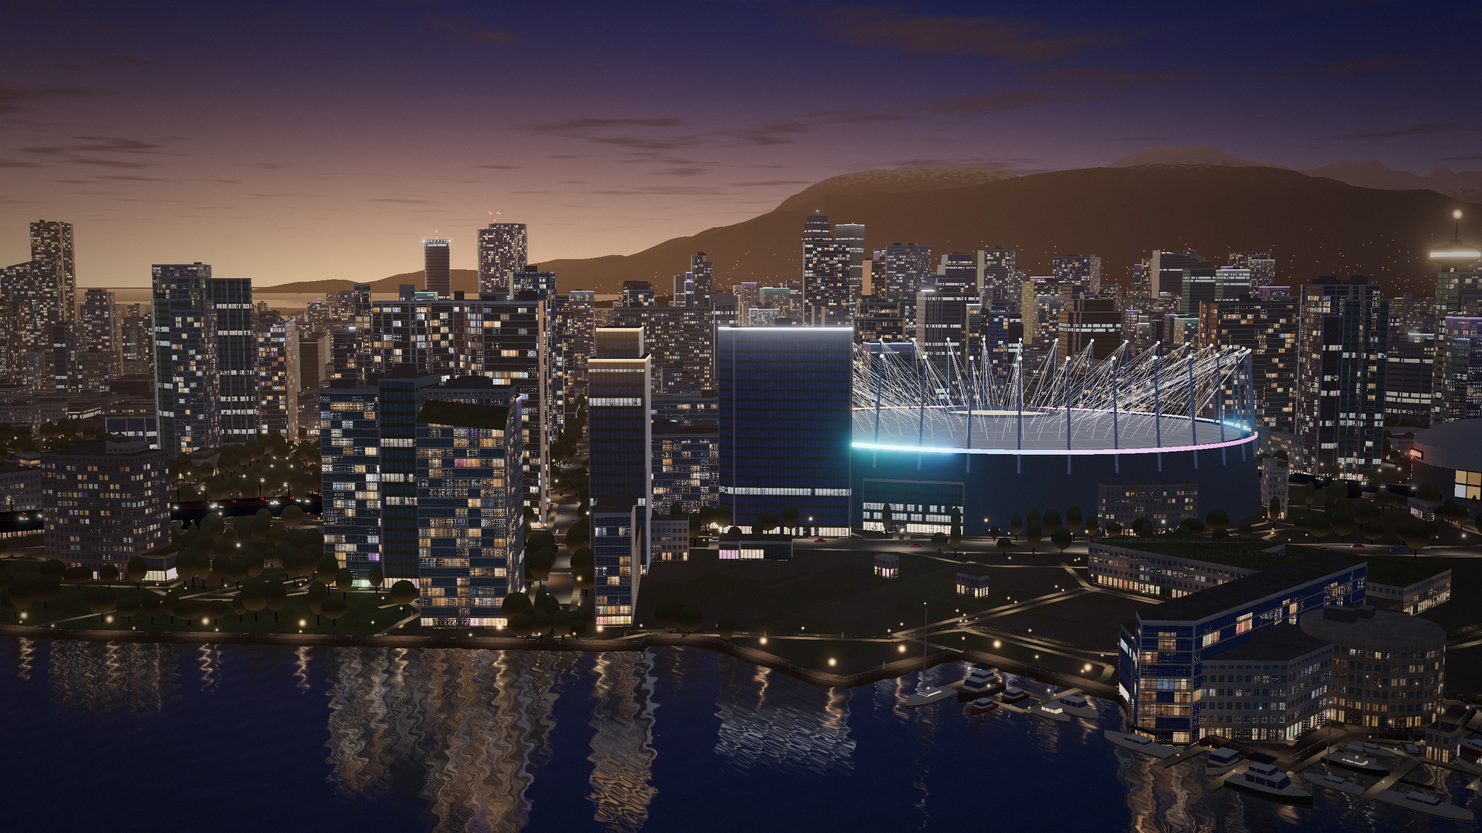
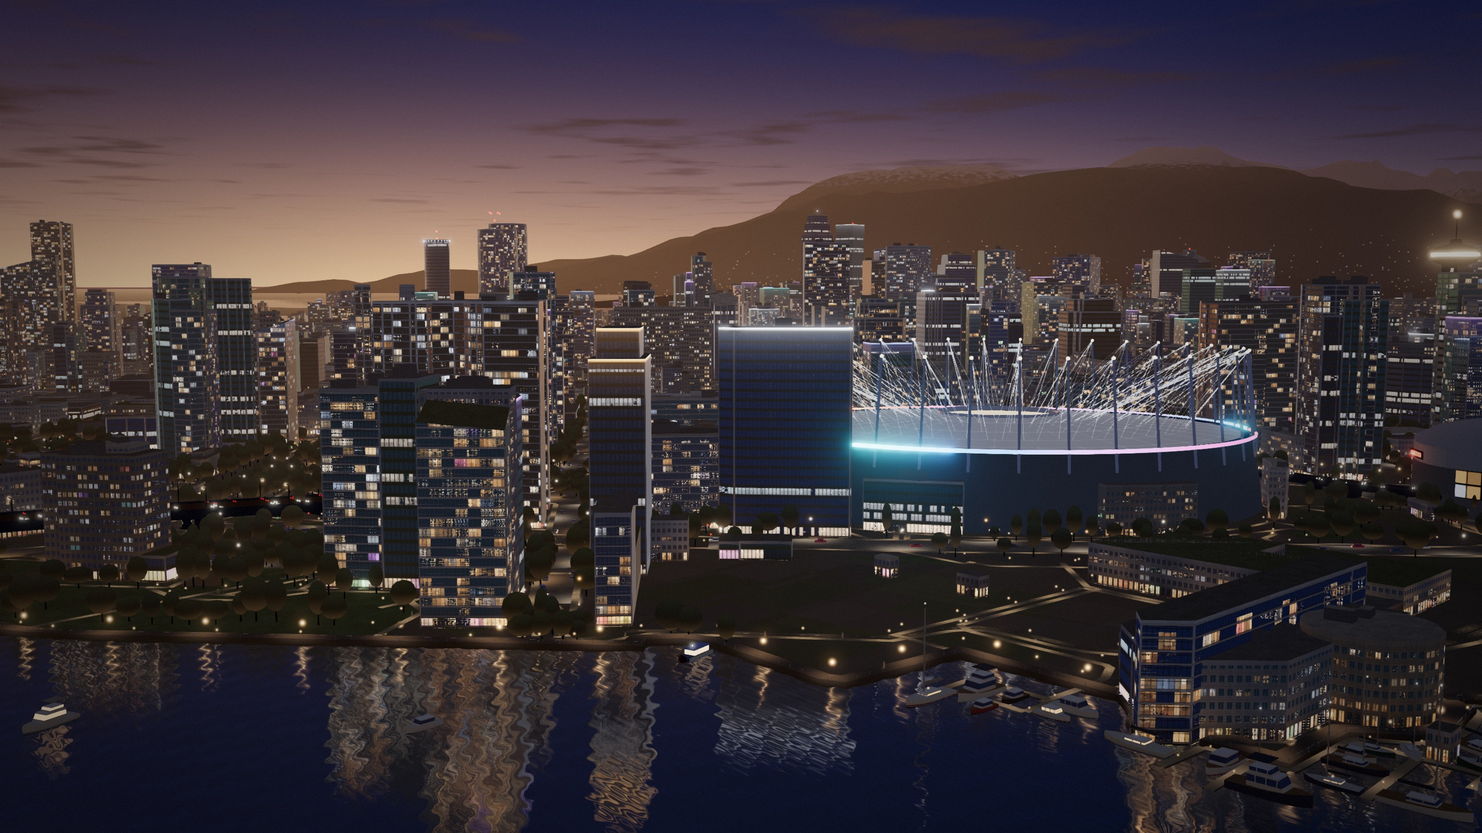
Hero: anti-aliasing, aligned paths and seawall, open-water boats, more realistic Granville Island
FXAA pass (the scene had no AA). Paths, streets and the seawall deck use mitered ribbons so they stay
continuous at bends and are clipped over water; the deck slopes down to the ground. Open-water sailboats,
cruisers and extra ferries in the creek. Granville Island: muted weathered palette, facing-dependent
light, stepped multi-bay market-hall roofs, pale silos with a few painted patches, warmer shopfront
lights. Posters re-rendered.

diff --git a/src/hero/granville.js b/src/hero/granville.js
@@ -14,8 +14,8 @@ import { orientedExtents, centroid } from './skyline-data.js';
 // Painted wall colours (dark linear albedo: they sit in blue-hour light): brick red, ochre, teal, cream, navy, green,
 // corrugated grey, rust orange, slate blue, mustard.
 const PALETTE = [
-  [0.5, 0.1, 0.07], [0.6, 0.42, 0.13], [0.07, 0.34, 0.36], [0.66, 0.63, 0.54], [0.12, 0.17, 0.3],
-  [0.22, 0.4, 0.18], [0.42, 0.43, 0.46], [0.62, 0.27, 0.09], [0.2, 0.3, 0.45], [0.68, 0.52, 0.1],
+  [0.38, 0.4, 0.42], [0.45, 0.16, 0.12], [0.18, 0.3, 0.3], [0.58, 0.55, 0.49], [0.24, 0.28, 0.36],
+  [0.26, 0.34, 0.22], [0.48, 0.36, 0.14], [0.4, 0.22, 0.12], [0.62, 0.6, 0.55], [0.62, 0.6, 0.55], [0.38, 0.4, 0.42],
 ];
 const ROOF = [0.16, 0.17, 0.19];
 
@@ -116,8 +116,13 @@ function createShedMaterial(uniforms) {
         float roofish = max(isRoof, step(0.35, n.y));
         vec3 sky = skyColor(normalize(vec3(n.x, max(n.y, 0.15), n.z)));
         // Sky light from above, warm spill from the lamps and lit doorways near the ground.
-        vec3 col = vAlbedo * (0.25 + 0.75 * max(n.y, 0.0)) * vec3(0.5, 0.58, 0.8) * 0.55;
-        col += vAlbedo * vec3(1.0, 0.68, 0.38) * 0.11 * (1.0 - abs(n.y)) * (0.45 + 0.9 * smoothstep(9.0, 0.5, vWorld.y));
+        // Facing matters: the west afterglow lights walls that face it, the rest get cool sky light.
+        float afterglow = max(dot(n, normalize(vec3(uSunDir.x, 0.15, uSunDir.z))), 0.0);
+        vec3 col = vAlbedo * (0.16 + 0.55 * max(n.y, 0.0)) * vec3(0.5, 0.58, 0.8);
+        col += vAlbedo * vec3(1.0, 0.6, 0.32) * 0.55 * afterglow * (1.0 - abs(n.y));
+        col += vAlbedo * vec3(1.0, 0.68, 0.38) * 0.1 * (1.0 - abs(n.y)) * (0.45 + 0.9 * smoothstep(9.0, 0.5, vWorld.y));
+        // Weathering: dirty at the foot of the wall, streaked below the eaves.
+        col *= 1.0 - 0.35 * (1.0 - roofish) * smoothstep(2.0, 0.0, vWorld.y);
         col += sky * 0.5 * roofish * mix(0.1, 0.6, pow(1.0 - max(dot(n, V), 0.0), 4.0)); // metal roofs catch the sky
         // Walls: corrugation lines, then lit shopfront windows and doorways along the ground floor.
         float along = dot(vWorld.xz, vDir);
@@ -174,16 +179,19 @@ function createSilos(silos, uniforms) {
         vec2 r = vWorld.xz - vCentre.xz;
         float ang = atan(r.y, r.x);
         float h = vWorld.y;
-        // Blocks of colour: sectors around the silo × bands up it, a different pick per silo and block.
-        float sector = floor((ang + 3.14159) / 6.28318 * 4.0);
-        float band = floor(h / 9.0);
+        // Pale concrete with a few large painted patches (about one in three), a different pick per silo.
+        float sector = floor((ang + 3.14159) / 6.28318 * 6.0);
+        float band = floor(h / 11.0);
         float id = hash12(vec2(sector * 3.1 + floor(vCentre.x * 0.37), band * 5.3 + floor(vCentre.z * 0.21)));
-        vec3 albedo = paint(id) * 0.72;
-        // Faint vertical seams where the concrete was poured in lifts.
-        albedo *= 1.0 - 0.12 * step(0.96, fract(h / 3.3));
-        vec3 col = albedo * (0.3 + 0.7 * max(n.y, 0.0)) * vec3(0.55, 0.62, 0.85) * 0.6;
+        vec3 concrete = vec3(0.58, 0.58, 0.56);
+        vec3 albedo = id > 0.66 ? paint((id - 0.66) / 0.34) * 0.8 : concrete;
+        albedo *= 1.0 - 0.1 * step(0.95, fract(h / 3.3)); // pour lines
+        // Round shading: afterglow side bright, shadow side cool and dark.
+        float glow = max(dot(n, normalize(vec3(uSunDir.x, 0.1, uSunDir.z))), 0.0);
+        vec3 col = albedo * (0.12 + 0.5 * max(n.y, 0.0)) * vec3(0.5, 0.58, 0.8);
+        col += albedo * vec3(1.0, 0.6, 0.32) * 0.65 * glow * (1.0 - abs(n.y));
         // Floodlights from the yard: warm light on the lower third, fading up.
-        col += albedo * vec3(1.0, 0.7, 0.42) * 0.85 * smoothstep(20.0, 0.0, h) * (1.0 - abs(n.y));
+        col += albedo * vec3(1.0, 0.7, 0.42) * 0.6 * smoothstep(20.0, 0.0, h) * (1.0 - abs(n.y));
         col = mix(col, vec3(0.03, 0.032, 0.036), step(0.9, vTop) * step(0.7, n.y)); // dark cap
         gl_FragColor = vec4(applyFog(col, vWorld), 1.0);
       }
@@ -216,7 +224,7 @@ export function createGranville(gi, uniforms, { lightShare = 1 } = {}) {
     const area = Math.abs(signedArea(ring));
     const e = orientedExtents(ring);
     const rectArea = 4 * e.a * e.b;
-    const albedo = PALETTE[Math.floor(rand() * PALETTE.length)].map((v) => v * 0.7);
+    const albedo = PALETTE[Math.floor(rand() * PALETTE.length)].map((v) => v * 0.85);
     const eave = Math.max(4, bd.h);
     const isRect = area / (rectArea || 1) > 0.72 && e.b > 3 && e.a > 4;
     const c = centroid(ring);
@@ -224,11 +232,17 @@ export function createGranville(gi, uniforms, { lightShare = 1 } = {}) {
       const outline = rect(e.center, e.angle, e.a, e.b);
       walls(b, outline, 0, eave, albedo, seed);
       if (area > 900) {
-        // A market hall: low flat roof with a raised glazed clerestory down the middle.
-        cap(b, outline, eave, [ROOF[0], ROOF[1], ROOF[2]], seed);
-        const cl = rect(e.center, e.angle, e.a * 0.78, e.b * 0.34);
-        walls(b, cl, eave, eave + 2.6, [0.2, 0.2, 0.22], seed, 2);
-        cap(b, cl, eave + 2.6, ROOF, seed);
+        // A market hall: a row of parallel gabled bays (the stepped corrugated roofline), one with a glazed clerestory.
+        const bays = Math.max(2, Math.round((2 * e.b) / 13));
+        const bw = e.b / bays;
+        const ux = Math.cos(e.angle), uy = Math.sin(e.angle), vx = -uy, vy = ux;
+        for (let k = 0; k < bays; k++) {
+          const off = -e.b + bw * (2 * k + 1);
+          gable(b, [e.center[0] + vx * off, e.center[1] + vy * off], e.angle, e.a, bw, eave, Math.min(bw * 0.42, 2.8), ROOF, seed);
+        }
+        const cl = rect(e.center, e.angle, e.a * 0.7, 1.2);
+        walls(b, cl, eave + 1.2, eave + 3.4, [0.2, 0.2, 0.22], seed, 2);
+        cap(b, cl, eave + 3.4, ROOF, seed);
       } else if (area > 120) {
         gable(b, e.center, e.angle, e.a, e.b, eave, Math.min(e.b * 0.5, 3.4), ROOF, seed);
       } else {
@@ -238,13 +252,13 @@ export function createGranville(gi, uniforms, { lightShare = 1 } = {}) {
       walls(b, ring, 0, eave, albedo, seed);
       cap(b, ring, eave, ROOF, seed);
     }
-    // A couple of warm lights over the doors (string lights, lanterns): the lit-up island look.
-    if (i % 2 === 0 && area > 80) {
-      const n = Math.min(3, 1 + Math.floor(area / 400));
+    // Warm lights along the long walls (string lights, lanterns, shopfronts): the lit-up island look.
+    if (area > 80) {
+      const n = Math.min(6, 1 + Math.floor(e.a / 9));
       for (let k = 0; k < n; k++) {
-        const t = rand() * Math.PI * 2, rx = Math.cos(t) * (e.a + 0.8), ry = Math.sin(t) * (e.b + 0.8);
-        const lx = c[0] + Math.cos(e.angle) * rx - Math.sin(e.angle) * ry, ly = c[1] + Math.sin(e.angle) * rx + Math.cos(e.angle) * ry;
-        lights.push({ p: [lx, 3.6, -ly], color: [4.2, 2.6, 1.2], size: 0.5 });
+        const t = ((k + 0.5) / n - 0.5) * 2 * e.a * 0.9, side = k % 2 ? 1 : -1;
+        const px = Math.cos(e.angle) * t - Math.sin(e.angle) * (e.b + 0.8) * side, py = Math.sin(e.angle) * t + Math.cos(e.angle) * (e.b + 0.8) * side;
+        lights.push({ p: [e.center[0] + px, 3.4, -(e.center[1] + py)], color: [3.6, 2.2, 1.0], size: 0.45 });
       }
     }
   });

diff --git a/src/hero/scene.js b/src/hero/scene.js
@@ -47,9 +47,9 @@ function decodeSkytrain(raw) {
 }
 
 export const TIERS = {
-  high: { pixelRatio: 2, reflectionScale: 0.5, bloomScale: 0.5, bloom: true, lightShare: 1, samples: 0 },
-  medium: { pixelRatio: 1.5, reflectionScale: 0.25, bloomScale: 0.25, bloom: true, lightShare: 0.6, samples: 0 },
-  low: { pixelRatio: 1, reflectionScale: 0.25, bloomScale: 0.25, bloom: false, lightShare: 0.35, samples: 0 },
+  high: { pixelRatio: 2, reflectionScale: 0.5, bloomScale: 0.5, bloom: true, lightShare: 1, samples: 0, fxaa: true },
+  medium: { pixelRatio: 1.5, reflectionScale: 0.25, bloomScale: 0.25, bloom: true, lightShare: 0.6, samples: 0, fxaa: true },
+  low: { pixelRatio: 1, reflectionScale: 0.25, bloomScale: 0.25, bloom: false, lightShare: 0.35, samples: 0, fxaa: false },
 };
 export const TIER_ORDER = ['high', 'medium', 'low'];
 
@@ -60,8 +60,10 @@ export const TURN_BEARING = { desktop: 38, phone: 56 };
 
 const SCENE_DETAIL = {
   desktop: { lod: { farDistance: 1300, farMinHeight: 10 }, demStride: 1, northShoreLights: 2600, boatDistance: 2400, lampSpacing: 34, carSpacing: [18, 48], maxTrees: 4000, pathLampDistance: 1600, planeScale: 1.6,
+    openBoats: 18, ferries: 4,
     southBank: { furnitureDistance: 900, parkedDistance: 850, maxParked: 700, streetTrees: 1400, peopleDistance: 480, walkers: 80, cyclists: 18 } },
   phone: { lod: { farDistance: 900, farMinHeight: 14 }, demStride: 2, northShoreLights: 1400, boatDistance: 1600, lampSpacing: 52, carSpacing: [30, 70], maxTrees: 1500, pathLampDistance: 1000, planeScale: 2.8,
+    openBoats: 9, ferries: 3,
     southBank: { furnitureDistance: 500, parkedDistance: 450, maxParked: 180, streetTrees: 400, peopleDistance: 320, walkers: 26, cyclists: 7 } },
 };
 
@@ -266,7 +268,7 @@ export async function createSkylineScene({ canvas, width, height, layout = 'desk
   addLights(seawall.lamps, 0);
 
   // Waterfront and parks: lawns, footpaths and bike paths with path lights, mapped trees.
-  const waterfront = createWaterfront(data, uniforms, { camera: CAMERA_POSITION, maxTrees: detail.maxTrees, lampDistance: detail.pathLampDistance });
+  const waterfront = createWaterfront(data, uniforms, { camera: CAMERA_POSITION, maxTrees: detail.maxTrees, lampDistance: detail.pathLampDistance, isWater });
   scene.add(waterfront.group);
   addLights(waterfront.lamps, 2);
 
@@ -275,7 +277,7 @@ export async function createSkylineScene({ canvas, width, height, layout = 'desk
   if (bcUpdate) animators.push(bcUpdate);
 
   // Street life: lamps along the downtown streets, traffic on the main roads.
-  const streets = createStreets(data.roads, uniforms, { camera: CAMERA_POSITION, lampSpacing: detail.lampSpacing, carSpacing: detail.carSpacing });
+  const streets = createStreets(data.roads, uniforms, { camera: CAMERA_POSITION, lampSpacing: detail.lampSpacing, carSpacing: detail.carSpacing, isWater });
   scene.add(streets.surface);
   if (streets.bodies) scene.add(streets.bodies);
   addLights(streets.lamps, 2);
@@ -345,7 +347,23 @@ export async function createSkylineScene({ canvas, width, height, layout = 'desk
 
   // Keep the water right below the camera calm (it holds the headline on phones): no boats within 220 m.
   await breathe();
-  const boats = createBoats(data.boats, data.docks, { camera: CAMERA_POSITION, minDistance: 220, maxDistance: detail.boatDistance, uniforms });
+  // Open-water boats (added 2026-11-22): sailboats and cruisers at anchor out in the creek, in the part of the water the
+  // camera sees tilted down or turned toward Granville Island. The mapped boats all sit in marinas; without these the
+  // middle of the creek is empty. Each needs clear water around it (no boat on a shoreline).
+  const openBoats = [];
+  {
+    let bs = 7;
+    const br = () => ((bs = (bs * 1664525 + 1013904223) >>> 0) / 4294967296);
+    const clear = (x, y) => isWater(x, y) && [0, 1, 2, 3, 4, 5, 6, 7].every((k) => isWater(x + Math.cos(k * 0.785) * 55, y + Math.sin(k * 0.785) * 55));
+    for (let tries = 0; tries < 900 && openBoats.length < detail.openBoats; tries++) {
+      const b = THREE.MathUtils.degToRad(268 + br() * 84), d = 280 + br() * 1000;
+      const x = CAMERA_POSITION[0] + Math.sin(b) * d, y = CAMERA_POSITION[1] + Math.cos(b) * d;
+      if (!clear(x, y) || openBoats.some((o) => Math.hypot(o.x - x, o.y - y) < 70)) continue;
+      const sail = br() < 0.5;
+      openBoats.push({ x, y, heading: br() * Math.PI * 2, length: sail ? 8 + br() * 6 : 7 + br() * 8, sail });
+    }
+  }
+  const boats = createBoats([...data.boats, ...openBoats], data.docks, { camera: CAMERA_POSITION, minDistance: 220, maxDistance: detail.boatDistance, uniforms });
   scene.add(boats.group);
   addLights(boats.lights, 2);
   // Two Aquabus ferries crossing False Creek in the foreground: candidate crossings (bearing/distance
@@ -369,10 +387,15 @@ export async function createSkylineScene({ canvas, width, height, layout = 'desk
     [[290, 220], [325, 430]],
     [[350, 120], [345, 380]],
     [[20, 120], [355, 300]],
+    // Toward Granville Island and under the Cambie Bridge.
+    [[272, 1650], [286, 900]],
+    [[283, 520], [296, 330]],
+    [[276, 1100], [284, 700]],
+    [[305, 260], [284, 560]],
   ];
   const ferrySpots = [];
   for (const [[ba, da], [bb, db]] of crossings) {
-    if (ferrySpots.length === 2) break;
+    if (ferrySpots.length === detail.ferries) break;
     const from = findWater(ba, da), to = findWater(bb, db);
     if (from && to && pathIsWater(from, to) && Math.hypot(to.x - from.x, to.y - from.y) > 120) ferrySpots.push({ from, to });
   }
@@ -413,6 +436,8 @@ export async function createSkylineScene({ canvas, width, height, layout = 'desk
     passes.bloomPass.enabled = q.bloom;
     composer.setSize(width, height);
     passes.grainPass.uniforms.uRes.value.set(width * pr, height * pr);
+    passes.fxaaPass.enabled = q.fxaa;
+    passes.fxaaPass.uniforms.resolution.value.set(1 / (width * pr), 1 / (height * pr));
     water.setReflectionSize(width * pr * q.reflectionScale, height * pr * q.reflectionScale);
     uniforms.uPixelHeight.value = height * pr;
     points.geometry.setDrawRange(0, Math.round(lights.length * q.lightShare));

diff --git a/src/hero/waterfront.js b/src/hero/waterfront.js
@@ -1,5 +1,6 @@
 import * as THREE from 'three';
 import { skyGlsl, hashGlsl, fogGlsl } from './shaders.js';
+import { miterOffsets } from './ribbon.js';
 
 /**
  * The waterfront and parks, the most visible ground in the shot (from OpenStreetMap via the data file):
@@ -50,19 +51,24 @@ function createGreens(greens, uniforms) {
 }
 
 /** Footpaths (light pavers) and bike paths (asphalt, dashed centre line), with path lights. */
-function createPaths(paths, uniforms, { camera, lampDistance, lampSpacing }) {
+function createPaths(paths, uniforms, { camera, lampDistance, lampSpacing, isWater = () => false }) {
   const pos = [], arc = [], across = [], half = [], cyc = [];
   const lamps = [];
   for (const p of paths) {
     const pts = p.line;
     const w = p.cycle ? 1.8 : 1.4;
+    const off = miterOffsets(pts, w);
     let cum = 0;
     for (let i = 1; i < pts.length; i++) {
       const [ax, ay] = pts[i - 1], [bx, by] = pts[i];
       const seg = Math.hypot(bx - ax, by - ay);
       if (seg < 0.3) continue;
+      // Not over open water (a path ribbon painted across the creek reads as a glitch).
+      if (isWater((ax + bx) / 2, (ay + by) / 2)) { cum += seg; continue; }
       const nx = (by - ay) / seg, ny = -(bx - ax) / seg;
-      const v = [[ax - nx * w, ay - ny * w, cum, -w], [bx - nx * w, by - ny * w, cum + seg, -w], [bx + nx * w, by + ny * w, cum + seg, w], [ax + nx * w, ay + ny * w, cum, w]];
+      const [oa, ob] = [off[i - 1], off[i]];
+      // Shared (mitered) edge vertices: the ribbon is continuous through bends.
+      const v = [[ax - oa[0], ay - oa[1], cum, -w], [bx - ob[0], by - ob[1], cum + seg, -w], [bx + ob[0], by + ob[1], cum + seg, w], [ax + oa[0], ay + oa[1], cum, w]];
       for (const k of [0, 1, 2, 0, 2, 3]) {
         const [x, y, a, c] = v[k];
         pos.push(x, 0.1, -y); arc.push(a); across.push(c); half.push(w); cyc.push(p.cycle ? 1 : 0);
@@ -177,10 +183,10 @@ export function createTrees(trees, uniforms, { max }) {
   return { group, count: list.length };
 }
 
-export function createWaterfront(data, uniforms, { camera = [0, 0], maxTrees = 4000, lampDistance = 1600, lampSpacing = PATH_LAMP_SPACING } = {}) {
+export function createWaterfront(data, uniforms, { camera = [0, 0], maxTrees = 4000, lampDistance = 1600, lampSpacing = PATH_LAMP_SPACING, isWater } = {}) {
   const group = new THREE.Group();
   group.add(createGreens(data.greens, uniforms));
-  const paths = createPaths(data.paths, uniforms, { camera, lampDistance, lampSpacing });
+  const paths = createPaths(data.paths, uniforms, { camera, lampDistance, lampSpacing, isWater });
   group.add(paths.mesh);
   const trees = createTrees(data.trees, uniforms, { max: maxTrees });
   group.add(trees.group);

diff --git a/src/hero/seawall.js b/src/hero/seawall.js
@@ -1,5 +1,6 @@
 import * as THREE from 'three';
 import { skyGlsl, hashGlsl, fogGlsl } from './shaders.js';
+import { miterOffsets } from './ribbon.js';
 
 /**
  * The seawall: a clean concrete edge along the shoreline, a paved path with warm pools of light under
@@ -10,6 +11,7 @@ const LAMP_SPACING = 28; // m
 const PATH_WIDTH = 5; // m, inland from the edge (wider strips overlap into blobs on tight curves)
 const LAMP_INSET = 3.5; // m from the edge
 const TOP = 1.6; // m above water
+const EMBANKMENT = 2.2; // m, the slope from the deck edge down to the ground
 
 /** Walks each shoreline polyline, calling fn(x, y, ux, uy, arc) every `spacing` metres (u = direction). */
 function walk(line, spacing, offset, fn) {
@@ -39,6 +41,8 @@ export function createSeawall(shoreline, uniforms, { camera = [0, 0], maxDistanc
 
   for (const line of shoreline) {
     if (!line.some(([x, y]) => near(x, y, maxDistance))) continue;
+    // Mitered inland edges (land is on the left): the deck and its sloping embankment stay continuous through bends.
+    const inner = miterOffsets(line, PATH_WIDTH), outer = miterOffsets(line, PATH_WIDTH + EMBANKMENT);
     let arc = 0;
     for (let i = 1; i < line.length; i++) {
       const [ax, ay] = line[i - 1], [bx, by] = line[i];
@@ -53,8 +57,13 @@ export function createSeawall(shoreline, uniforms, { camera = [0, 0], maxDistanc
       const a = W(ax, ay, -0.8), b = W(bx, by, -0.8), c = W(bx, by, TOP), d = W(ax, ay, TOP);
       for (const v of [a, c, b, a, d, c]) { pos.push(...v); nrm.push(nx, 0, nz); arcA.push(v === a || v === d ? arc : arc + len); acrossA.push(-1); }
       // Path (flat, inland).
-      const e = W(ax + lx * PATH_WIDTH, ay + ly * PATH_WIDTH, TOP), f = W(bx + lx * PATH_WIDTH, by + ly * PATH_WIDTH, TOP);
+      const e = W(ax - inner[i - 1][0], ay - inner[i - 1][1], TOP), f = W(bx - inner[i][0], by - inner[i][1], TOP);
       for (const [v, ac, acr] of [[d, arc, 0], [c, arc + len, 0], [f, arc + len, PATH_WIDTH], [d, arc, 0], [f, arc + len, PATH_WIDTH], [e, arc, PATH_WIDTH]]) {
+        pos.push(...v); nrm.push(0, 1, 0); arcA.push(ac); acrossA.push(acr);
+      }
+      // Embankment: the deck's inland edge slopes down to the ground instead of hanging in the air.
+      const g = W(ax - outer[i - 1][0], ay - outer[i - 1][1], 0.05), h = W(bx - outer[i][0], by - outer[i][1], 0.05);
+      for (const [v, ac, acr] of [[e, arc, PATH_WIDTH], [f, arc + len, PATH_WIDTH], [h, arc + len, PATH_WIDTH + EMBANKMENT], [e, arc, PATH_WIDTH], [h, arc + len, PATH_WIDTH + EMBANKMENT], [g, arc, PATH_WIDTH + EMBANKMENT]]) {
         pos.push(...v); nrm.push(0, 1, 0); arcA.push(ac); acrossA.push(acr);
       }
       arc += len;

diff --git a/src/hero/streets.js b/src/hero/streets.js
@@ -8,8 +8,9 @@
 import * as THREE from 'three';
 import { mergeGeometries } from 'three/addons/utils/BufferGeometryUtils.js';
 import { skyGlsl, hashGlsl, fogGlsl } from './shaders.js';
+import { miterOffsets } from './ribbon.js';
 
-export function createStreets(roads, uniforms, { camera = [0, 0], maxDistance = 2600, lampSpacing = 34, carSpacing = [18, 48], ribbonDistance = 2200, localTrafficDistance = 1300, bodyDistance = 1500 } = {}) {
+export function createStreets(roads, uniforms, { camera = [0, 0], maxDistance = 2600, lampSpacing = 34, carSpacing = [18, 48], ribbonDistance = 2200, localTrafficDistance = 1300, bodyDistance = 1500, isWater = () => false } = {}) {
   let seed = 77;
   const rand = () => ((seed = (seed * 1664525 + 1013904223) >>> 0) / 4294967296);
   const far = ([x, y]) => Math.hypot(x - camera[0], y - camera[1]) > maxDistance;
@@ -40,12 +41,14 @@ export function createStreets(roads, uniforms, { camera = [0, 0], maxDistance = 
     const phase = rand() * lampSpacing;
     if (pts.some((p) => Math.hypot(p[0] - camera[0], p[1] - camera[1]) < ribbonDistance)) {
       const w = half + 2;
+      const off = miterOffsets(pts, w); // shared edge vertices: no notches at bends
       for (let i = 1; i < pts.length; i++) {
         const [ax, ay] = pts[i - 1], [bx, by] = pts[i];
         const seg = cum[i] - cum[i - 1];
         if (seg < 0.5) continue;
-        const nx = (by - ay) / seg, ny = -(bx - ax) / seg; // right of travel
-        const v = [[ax - nx * w, ay - ny * w, cum[i - 1], -w], [bx - nx * w, by - ny * w, cum[i], -w], [bx + nx * w, by + ny * w, cum[i], w], [ax + nx * w, ay + ny * w, cum[i - 1], w]];
+        if (isWater((ax + bx) / 2, (ay + by) / 2)) continue; // never paint a street across the creek
+        const [oa, ob] = [off[i - 1], off[i]];
+        const v = [[ax - oa[0], ay - oa[1], cum[i - 1], -w], [bx - ob[0], by - ob[1], cum[i], -w], [bx + ob[0], by + ob[1], cum[i], w], [ax + oa[0], ay + oa[1], cum[i - 1], w]];
         for (const k of [0, 1, 2, 0, 2, 3]) {
           const [x, y, a, c] = v[k];
           rib.pos.push(x, 0.12, -y); rib.arc.push(a); rib.across.push(c); rib.phase.push(phase); rib.half.push(half);

diff --git a/src/hero/post.js b/src/hero/post.js
@@ -4,6 +4,7 @@ import { RenderPass } from 'three/addons/postprocessing/RenderPass.js';
 import { UnrealBloomPass } from 'three/addons/postprocessing/UnrealBloomPass.js';
 import { OutputPass } from 'three/addons/postprocessing/OutputPass.js';
 import { ShaderPass } from 'three/addons/postprocessing/ShaderPass.js';
+import { FXAAShader } from 'three/addons/shaders/FXAAShader.js';
 
 /** Film grain + gentle vignette, applied after tone mapping (display space). */
 const GrainShader = {
@@ -43,6 +44,9 @@ export function createComposer(renderer, scene, camera, { width, height, pixelRa
   bloomPass.scale = bloomScale;
   bloomPass.setSize = (w, h) => bloomSetSize(Math.max(2, w * bloomPass.scale * 2), Math.max(2, h * bloomPass.scale * 2));
   const outputPass = new OutputPass();
+  // Edge smoothing (the scene has no MSAA): one cheap full-screen pass on the display-space image.
+  const fxaaPass = new ShaderPass(FXAAShader);
+  fxaaPass.uniforms.resolution.value.set(1 / (width * pixelRatio), 1 / (height * pixelRatio));
   const grainPass = new ShaderPass(GrainShader);
   grainPass.uniforms.uRes.value.set(width * pixelRatio, height * pixelRatio);
   grainPass.uniforms.uGrain.value = grain;
@@ -51,6 +55,7 @@ export function createComposer(renderer, scene, camera, { width, height, pixelRa
   bloomPass.setSize(width * pixelRatio, height * pixelRatio);
   composer.addPass(bloomPass);
   composer.addPass(outputPass);
+  composer.addPass(fxaaPass);
   composer.addPass(grainPass);
-  return { composer, passes: { renderPass, bloomPass, outputPass, grainPass } };
+  return { composer, passes: { renderPass, bloomPass, outputPass, fxaaPass, grainPass } };
 }

diff --git a/src/hero/ribbon.js b/src/hero/ribbon.js
@@ -1,0 +1,32 @@
+/**
+ * Mitered ribbons: offsets for a polyline so that consecutive segments share their edge vertices (no notches or
+ * overlaps at bends, which is what makes drawn paths and streets look ragged). Used by the paths, streets and seawall.
+ */
+
+/**
+ * Per-vertex offset vectors for a ribbon of half-width `w` along `pts` ([x, y] in metres): the offset points to the
+ * right of travel; the ribbon's edges are p - offset (left) and p + offset (right). At sharp bends the offset is
+ * capped (`limit` × w) so spikes don't appear.
+ * @returns {number[][]} [[ox, oy]] per vertex
+ */
+export function miterOffsets(pts, w, limit = 2.2) {
+  const seg = [];
+  for (let i = 1; i < pts.length; i++) {
+    const dx = pts[i][0] - pts[i - 1][0], dy = pts[i][1] - pts[i - 1][1], l = Math.hypot(dx, dy);
+    seg.push(l < 1e-6 ? null : [dy / l, -dx / l]); // right-hand normal of each segment
+  }
+  const normalAt = (k) => seg[Math.max(0, Math.min(seg.length - 1, k))];
+  return pts.map((_, i) => {
+    // Nearest usable normals before and after this vertex.
+    let a = null, b = null;
+    for (let k = i - 1; k >= 0 && !a; k--) a = seg[k];
+    for (let k = i; k < seg.length && !b; k++) b = seg[k];
+    a ??= b ?? normalAt(0) ?? [0, 1]; b ??= a;
+    let mx = a[0] + b[0], my = a[1] + b[1];
+    const ml = Math.hypot(mx, my);
+    if (ml < 1e-6) return [a[0] * w, a[1] * w];
+    mx /= ml; my /= ml;
+    const scale = Math.min(limit, 1 / Math.max(mx * a[0] + my * a[1], 1e-3));
+    return [mx * w * scale, my * w * scale];
+  });
+}

diff --git a/CLAUDE.md b/CLAUDE.md
@@ -130,6 +130,11 @@ A realistic, interactive 3D Vancouver skyline that also works as navigation.
   from OSM footprints (own `granville` section of the data file; colours and shapes approximate). `src/hero/southbank.js` adds
   seawall railings and benches, parked cars and street trees along local streets, and walkers and cyclists (cyclists carry a
   front light) on the paths, all sized per device (`SCENE_DETAIL.southBank` in `scene.js`). Scenery only, no hotspots.
+  Second pass (2026-11-22): FXAA pass in `post.js` (high and medium tiers; the scene had no anti-aliasing before); paths,
+  streets and the seawall deck are drawn as mitered ribbons (`src/hero/ribbon.js`) so they stay continuous through bends, are
+  clipped where they would cross water, and the deck slopes down to the ground; open-water sailboats and cruisers plus up to
+  four Aquabus-style ferries (`openBoats`, `ferries` in `SCENE_DETAIL`); Granville Island re-lit with muted weathered colours,
+  facing-dependent light, stepped multi-bay roofs on the market halls and mostly pale-concrete silos.
   Still approximate: Sea Village houseboats and the ferry docks are not hand-modelled; large unmapped patches of the south bank
   (parks/lots with no OSM buildings) are plain dark ground. Hero download is ~594 KB gzipped (budget 700).
 - **Name (2026-11-21):** the hero leads with "Jacob Van Luven" as the h1: Unbounded 800, uppercase, an orange
